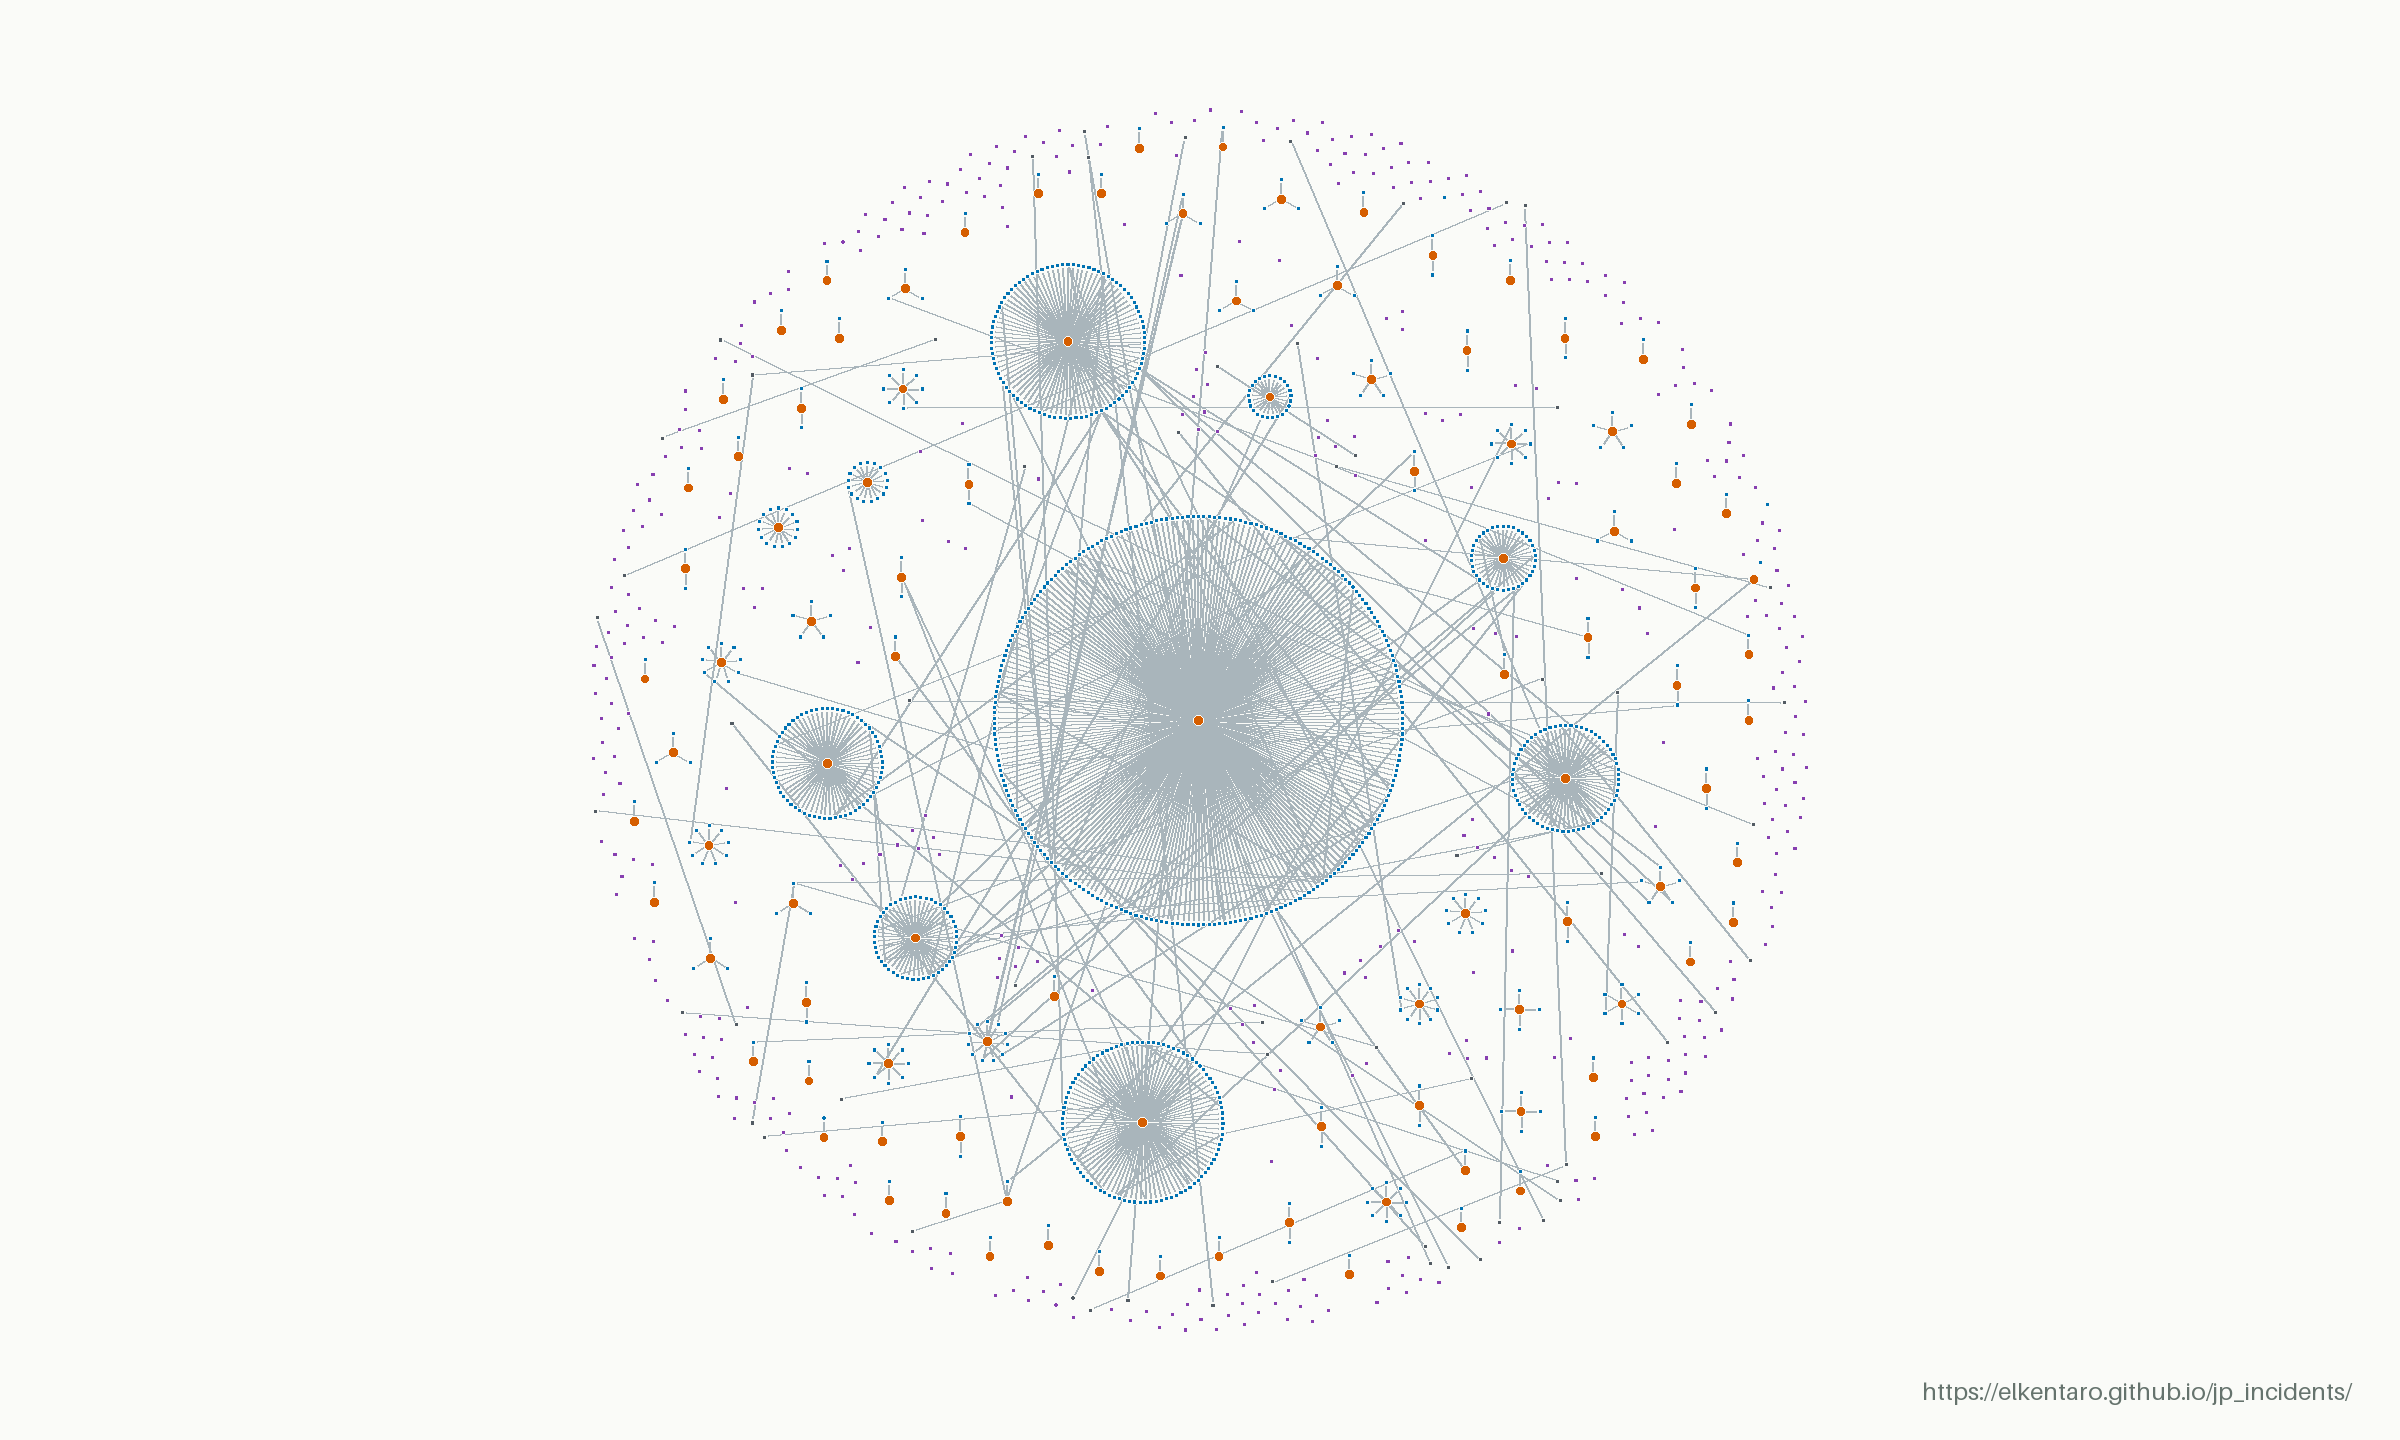
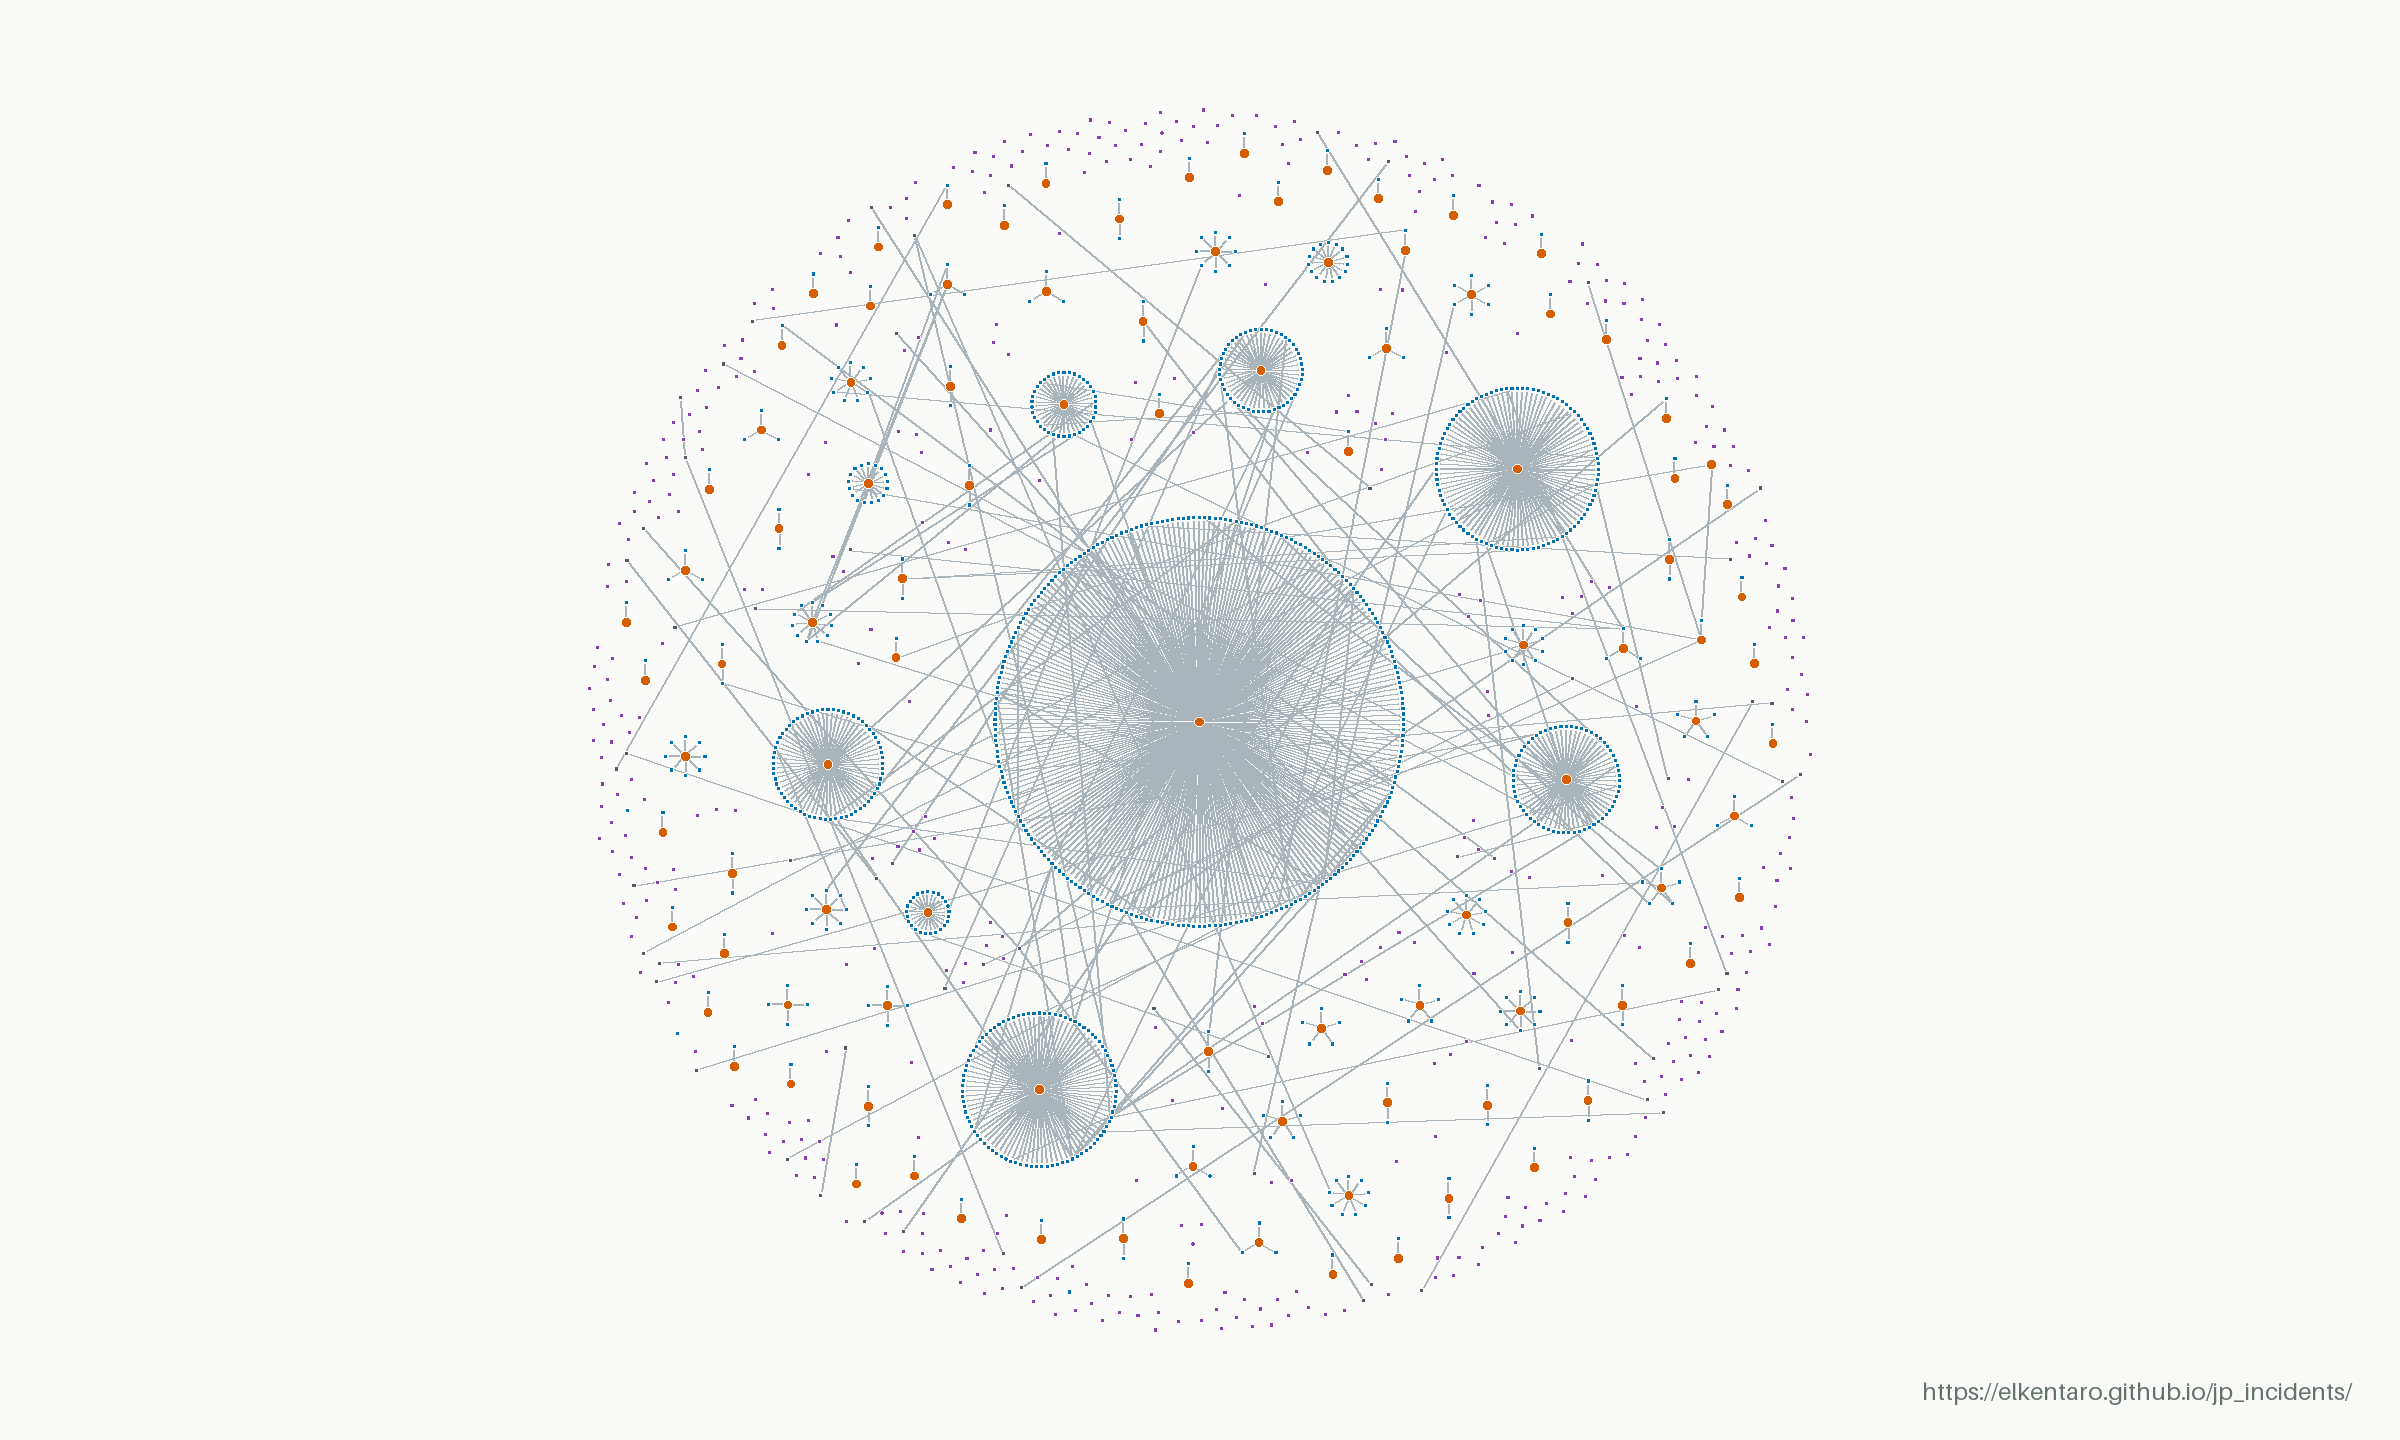
Update incident data (2026-11-21 06:17 UTC)

diff --git a/linkage.html b/linkage.html
@@ -36,13 +36,13 @@
         <div><dt data-copy="directUpstream">Upstream incidents</dt><dd id="upstream-count">101</dd></div>
         <div><dt data-copy="directStandalone">Standalone incidents</dt><dd id="standalone-count">500</dd></div>
       </dl>
-      <p class="direct-excluded"><strong id="downstream-count">931</strong> <span data-copy="directExcluded">downstream records excluded, including incidents with both roles.</span></p>
+      <p class="direct-excluded"><strong id="downstream-count">932</strong> <span data-copy="directExcluded">downstream records excluded, including incidents with both roles.</span></p>
       <p class="direct-definition" data-copy="directDefinition">Direct incidents = upstream + standalone, based on recorded causal links. Standalone incidents have no upstream or downstream causal links, but may have other links, such as separate events at the same organization.</p>
     </section>
     <dl class="map-stats">
-      <div><dt data-copy="total">Incidents in snapshot</dt><dd>1532</dd></div>
-      <div><dt data-copy="linked">With recorded connections</dt><dd>1088</dd></div>
-      <div><dt data-copy="links">Recorded connections</dt><dd>1049</dd></div>
+      <div><dt data-copy="total">Incidents in snapshot</dt><dd>1533</dd></div>
+      <div><dt data-copy="linked">With recorded connections</dt><dd>1089</dd></div>
+      <div><dt data-copy="links">Recorded connections</dt><dd>1050</dd></div>
       <div><dt data-copy="networks">Connected networks</dt><dd>85</dd></div>
     </dl>
     <figure class="map-figure">
@@ -50,7 +50,7 @@
         <img src="data/linkage-map.png" width="2400" height="1440" alt="Anonymized incident map. Orange upstream hubs connect to blue downstream incidents; purple unlinked incidents appear throughout the same map without connecting lines." data-copy-alt="alt">
       </div>
       <figcaption>
-        <div class="map-caption-meta"><span><span data-copy="updated">Last updated</span>: <time datetime="2026-11-21T04:16:08.862309+00:00">2026-11-21 04:16 UTC</time></span><a href="data/linkage-map.png" target="_blank" rel="noopener" data-copy="open">Open full-resolution image ↗</a></div>
+        <div class="map-caption-meta"><span><span data-copy="updated">Last updated</span>: <time datetime="2026-11-21T06:16:41.952369+00:00">2026-11-21 06:16 UTC</time></span><a href="data/linkage-map.png" target="_blank" rel="noopener" data-copy="open">Open full-resolution image ↗</a></div>
         <div class="map-key-section">
           <strong id="map-key-title" data-copy="key">Key</strong>
           <ul class="map-key" aria-labelledby="map-key-title">
@@ -69,7 +69,7 @@
       <section><h2 data-copy="readingTitle">Reading the map</h2><p data-copy="reading">Orange marks upstream incidents, blue downstream incidents, and purple unlinked incidents with no recorded connection. Teal marks incidents with both upstream and downstream roles; charcoal marks other related incidents. A missing connection does not establish that two incidents are unrelated.</p></section>
       <section><h2 data-copy="snapshotTitle">About this snapshot</h2><p data-copy="snapshot">The static image is refreshed when published incidents or relationships change, and at least every 24 hours during normal publication. Larger upstream clusters have extra spacing to keep their victims apart. Names, incident IDs, source links and incident dates are omitted; the connection pattern is retained. It is an overview of recorded relationships, not a complete map of cyber incidents in Japan.</p></section>
     </div>
-    <p class="map-source"><span data-copy="sourceUpdated">Source data updated</span>: <time datetime="2026-11-21T04:16:08+00:00">2026-11-21T04:16:08+00:00</time> · <a href="./" data-copy="browse">Browse the incident index</a></p>
+    <p class="map-source"><span data-copy="sourceUpdated">Source data updated</span>: <time datetime="2026-11-21T06:16:41+00:00">2026-11-21T06:16:41+00:00</time> · <a href="./" data-copy="browse">Browse the incident index</a></p>
   </main>
   <footer><div class="shell footer-inner"><p data-copy="footer">Public reports. Recorded relationships. An anonymized overview.</p><a href="./" data-copy="back">Back to incidents</a></div></footer>
   <script src="linkage.js?v=20261107-spacing" defer></script>
